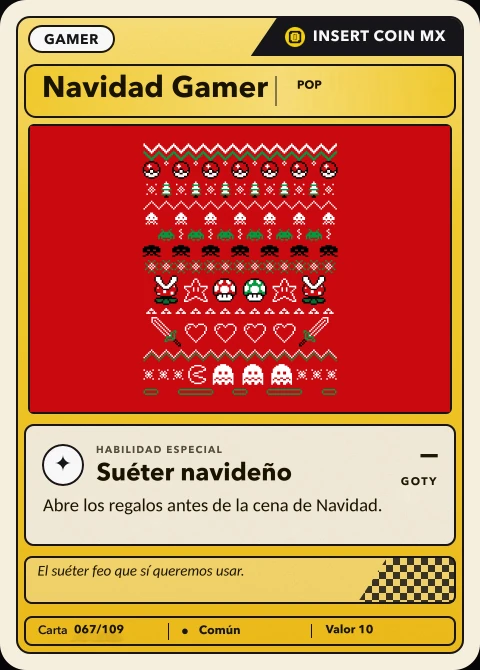
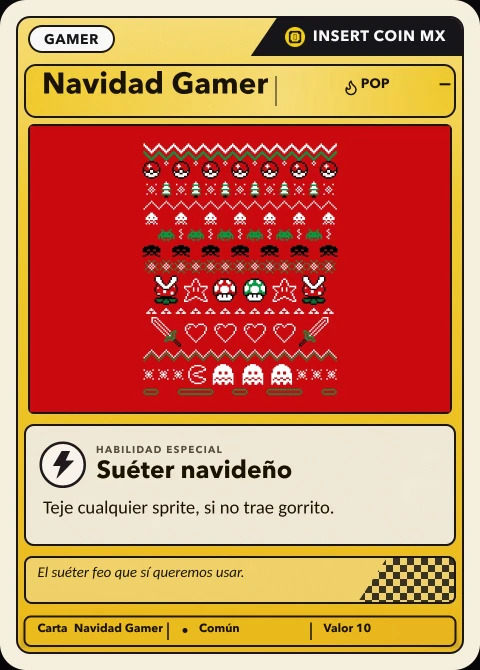
Navidad Gamer · regla de producción Cartas Dinámicas 2.0
- Respaldo c/ c2/ (Base, Holo, Dorada, Especial) rehecho desde el renderer dinámico:
  sin GOTY ni POP incrustado, estrellas 0/1/2/3, habilidad nueva, «Carta Navidad Gamer»
- Holo = cómo se diseñó y Dorada = anécdota: textos aprobados de Mago en card-texts.js
- Herramientas: cartas/respaldo-dinamico.mjs + respaldo-webp.py, qa/card-variants-browsers.mjs + sheet
- Capturas QA de Navidad Gamer a 320/390/1280 (dinámica y respaldo) y muestra-cambios.jpg
- Regla documentada en cartas/SISTEMA.md
Ilustraciones, bases cs/cs2, motor y otras cartas sin cambios.

Claude-Session: https://claude.ai/code/session_01WEHJpHP98oLH3ffkxDSXkP

diff --git a/cartas/respaldo-webp.py b/cartas/respaldo-webp.py
@@ -1,0 +1,52 @@
+#!/usr/bin/env python3
+"""Pasa los PNG de .respaldo/ (salida de cartas/respaldo-dinamico.mjs) a c2/ (960x1340) y c/ (480x670)
+y actualiza las huellas de salida en cartas/arte-manifest.json. No toca ilustraciones ni bases cs/cs2.
+
+Uso: python3 cartas/respaldo-webp.py <id> [<id> ...]
+"""
+import json
+import sys
+from pathlib import Path
+
+import cv2
+import numpy as np
+from PIL import Image
+
+ROOT = Path(__file__).resolve().parent.parent
+sys.path.insert(0, str(ROOT / "cartas"))
+import qa  # noqa: E402
+
+CALIDAD = 90  # igual que WEBP_CALIDAD de generar.py
+
+
+def main():
+    ids = sys.argv[1:]
+    if not ids:
+        sys.exit(__doc__)
+    catalogo = {d["id"]: d for d in json.load(open(ROOT / "cartas/catalogo.json", encoding="utf8"))}
+    html = (ROOT / "index.html").read_text(encoding="utf8")
+    raw = (ROOT / "cartas/arte-manifest.json").read_text(encoding="utf8")
+    manifest = json.loads(raw)
+    for ident in ids:
+        d = catalogo[ident]
+        claves = [ident if r == d["version_original"] else ident + "_" + qa.LETRAS[r] for r in qa.LETRAS]
+        if d.get("full"):
+            claves.append("F_" + ident)
+        for clave in claves:
+            png = ROOT / ".respaldo" / (clave + ".png")
+            im = Image.open(png).convert("RGB")
+            if im.size != (960, 1340):
+                sys.exit(f"{png}: tamaño {im.size}, se esperaba 960x1340")
+            im.save(ROOT / "c2" / (clave + ".webp"), quality=CALIDAD, method=6)
+            chica = cv2.resize(np.asarray(im), (480, 670), interpolation=cv2.INTER_AREA)
+            Image.fromarray(chica).save(ROOT / "c" / (clave + ".webp"), quality=CALIDAD, method=6)
+            print("ok", clave)
+        entrada = manifest["designs"].setdefault(ident, {})
+        entrada["outputs"] = {o: qa.sha(ROOT / o) for o in sorted(qa.outputs(d, html))}
+        entrada["sources"] = {s: qa.sha(ROOT / s) for s in qa.sources(d)}
+    texto = json.dumps(manifest, ensure_ascii=False, indent=2) + ("\n" if raw.endswith("\n") else "")
+    (ROOT / "cartas/arte-manifest.json").write_text(texto, encoding="utf8")
+
+
+if __name__ == "__main__":
+    main()

diff --git a/qa/card-variants-sheet.py b/qa/card-variants-sheet.py
@@ -1,0 +1,55 @@
+#!/usr/bin/env python3
+"""Hoja de capturas de qa/card-variants-browsers.mjs: una por ancho, dinámica y respaldo de cada variante.
+
+Uso: python3 qa/card-variants-sheet.py <id>  →  qa/screenshots/cartas/<id>-320.jpg, -390.jpg, -1280.jpg
+"""
+import sys
+from pathlib import Path
+
+from PIL import Image, ImageDraw, ImageFont
+
+ROOT = Path(__file__).resolve().parent.parent
+NOMBRES = {"b": "Base", "e": "Holo", "r": "Dorada", "f": "Especial"}
+
+
+def fuente(tam):
+    for ruta in ("/usr/share/fonts/truetype/dejavu/DejaVuSans-Bold.ttf", "C:/Windows/Fonts/arialbd.ttf"):
+        if Path(ruta).is_file():
+            return ImageFont.truetype(ruta, tam)
+    return ImageFont.load_default()
+
+
+def main():
+    if len(sys.argv) != 2:
+        sys.exit(__doc__)
+    ident = sys.argv[1]
+    src = ROOT / ".qa-cartas" / ident
+    dst = ROOT / "qa/screenshots/cartas"
+    dst.mkdir(parents=True, exist_ok=True)
+    f = fuente(26)
+    for ancho in (320, 390, 1280):
+        tiles = []
+        for modo in ("dinamica", "respaldo"):
+            for v in "berf":
+                png = src / f"{ancho}_{v}_{modo}.png"
+                if not png.is_file():
+                    continue
+                im = Image.open(png).convert("RGB")
+                im.thumbnail((10000, 900 if ancho < 1280 else 620))
+                t = Image.new("RGB", (im.width, im.height + 40), (18, 15, 26))
+                t.paste(im, (0, 40))
+                etiqueta = f"{ident} · {ancho}px · {NOMBRES[v]} · {'dinámica' if modo == 'dinamica' else 'respaldo'}"
+                ImageDraw.Draw(t).text((8, 6), etiqueta, fill=(255, 212, 0), font=f)
+                tiles.append(t)
+        hoja = Image.new("RGB", (sum(t.width + 10 for t in tiles), max(t.height for t in tiles)), (0, 0, 0))
+        x = 0
+        for t in tiles:
+            hoja.paste(t, (x, 0))
+            x += t.width + 10
+        salida = dst / f"{ident}-{ancho}.jpg"
+        hoja.save(salida, quality=82)
+        print("ok", salida.relative_to(ROOT))
+
+
+if __name__ == "__main__":
+    main()

diff --git a/cartas/SISTEMA.md b/cartas/SISTEMA.md
@@ -8,6 +8,30 @@ Hoja "Narrativas TCG" (Drive)  →  cartas/catalogo.json  →  cartas/generar.py
          textos                       copia en git             plantillas + arte
 ```
 
+## Regla de producción · Cartas Dinámicas 2.0 (26 nov 2026)
+
+Toda carta nueva o actualizada respeta el sistema visual vigente, **incluidas sus versiones de respaldo estáticas** (`c/`, `c2/`).
+
+- Sin **GOTY** ni **Likes** en ninguna parte.
+- Sin valores de **POP** ni puntuaciones incrustados en imágenes: el POP solo lo pone el runtime (en el respaldo va «—»).
+- El **renderer dinámico** (`content/card-renderer.js`) es la referencia visual definitiva.
+- Se conservan identidad gráfica, numeración y estrellas de cada rareza (Base 0 · Holo ★ · Dorada ★★ · Arte Especial ★★★).
+- Contenido por variante: **Base** = habilidad y frase · **Holo** = cómo se diseñó (`holo` en `content/card-texts.js`,
+  columna H de la hoja) · **Dorada** = anécdota o curiosidad (`dorada`, columna E) · **Arte Especial** = ilustración especial.
+- El valor junto a «Carta» (serie, colección, F##, ARCHIVO) lo pone el runtime encima; nunca va en las bases `cs/`/`cs2/`.
+- Solo se regeneran los recursos derivados que incumplan estas reglas; las ilustraciones originales
+  (`cartas/arte/`, `cartas/full/`) no se tocan.
+- Se verifican las 4 variantes a 320, 390 y 1280 px, en dinámica y en respaldo, y las capturas muestran la carta trabajada.
+
+Herramientas:
+```
+node cartas/respaldo-dinamico.mjs <id> [--etiqueta "Colección"]   # respaldo = base cs2 + capas del renderer
+python3 cartas/respaldo-webp.py <id>                              # → c2/ 960×1340, c/ 480×670 y manifiesto
+node qa/card-variants-browsers.mjs <id>                           # QA 4 variantes × 320/390/1280, dinámica y respaldo
+python3 qa/card-variants-sheet.py <id>                            # → qa/screenshots/cartas/<id>-<ancho>.jpg
+```
+`generar.py` (sistema anterior) sigue horneando GOTY y POP en `c/`/`c2/`: no usarlo para el respaldo de cartas nuevas.
+
 ## 1. Fuente de verdad: la hoja
 
 Hoja de Google: **Insert Coin MX — Narrativas TCG**, pestaña *Narrativas TCG*. Una fila = un diseño.
